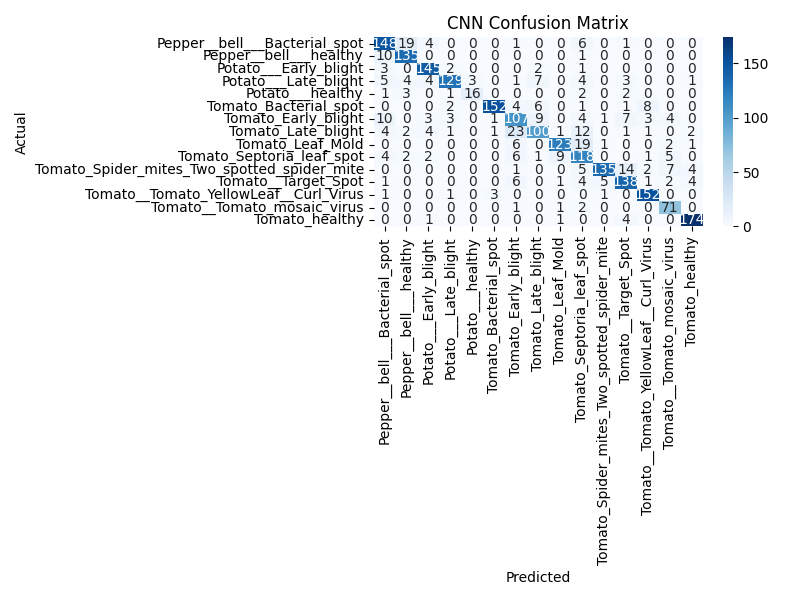
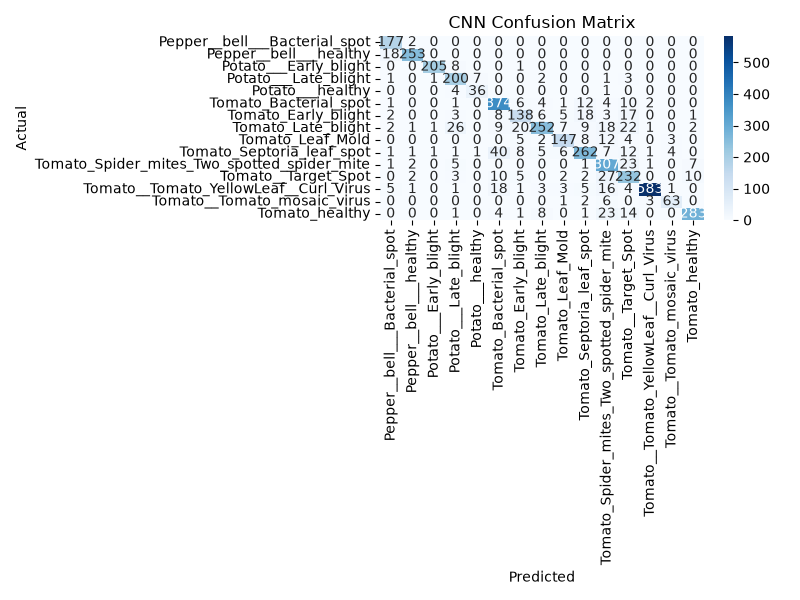
Deploy PhytoCheck: MobileNetV2 Transfer Learning pipeline

diff --git a/train_pipeline.py b/train_pipeline.py
@@ -4,6 +4,11 @@ import numpy as np
 import pandas as pd
 import matplotlib.pyplot as plt
 import seaborn as sns
+import joblib
+from sklearn.utils.class_weight import compute_class_weight
+from tensorflow.keras.applications import MobileNetV2
+from tensorflow.keras.layers import GlobalAveragePooling2D
+from tensorflow.keras.callbacks import EarlyStopping
 from sklearn.model_selection import train_test_split, GridSearchCV
 from sklearn.preprocessing import StandardScaler, LabelEncoder
 from sklearn.decomposition import PCA
@@ -23,7 +28,6 @@ IMG_SIZE_CLASSICAL = 64
 IMG_SIZE_CNN = 128
 
 def load_data(img_size):
-    """Loads images, resizes them, and returns feature arrays and labels."""
     X = []
     y = []
     classes = os.listdir(DATASET_PATH)
@@ -42,111 +46,153 @@ def load_data(img_size):
                 
     return np.array(X), np.array(y)
 
-print("Loading data for Classical ML...")
-X_class, y_raw = load_data(IMG_SIZE_CLASSICAL)
+if __name__ == '__main__':
+    print("Loading data for Classical ML...")
+    X_class, y_raw = load_data(IMG_SIZE_CLASSICAL)
 
-le = LabelEncoder()
-y_encoded = le.fit_transform(y_raw)
-
-X_flat = X_class.reshape(X_class.shape[0], -1)
-
-X_flat = X_flat / 255.0
-
-X_train, X_test, y_train, y_test = train_test_split(X_flat, y_encoded, test_size=0.2, random_state=42)
-
-scaler = StandardScaler()
-X_train_scaled = scaler.fit_transform(X_train)
-X_test_scaled = scaler.transform(X_test)
-
-print("Applying PCA...")
-pca = PCA(n_components=0.95) 
-X_train_pca = pca.fit_transform(X_train_scaled)
-X_test_pca = pca.transform(X_test_scaled)
-print(f"Original shape: {X_train_scaled.shape}, Reduced shape: {X_train_pca.shape}")
-
-models = {
-    "Logistic Regression": LogisticRegression(max_iter=500),
-    "K-Nearest Neighbors": KNeighborsClassifier(n_neighbors=5),
-    "Support Vector Machine": SVC(kernel='rbf', probability=True),
-    "Decision Tree": DecisionTreeClassifier(),
-    "Random Forest": RandomForestClassifier(n_estimators=100)
-}
-
-print("\n--- Training Classical ML Models ---")
-results = {}
-for name, model in models.items():
-    model.fit(X_train_pca, y_train)
-    y_pred = model.predict(X_test_pca)
-    acc = accuracy_score(y_test, y_pred)
-    results[name] = acc
-    print(f"{name} Accuracy: {acc:.4f}")
-
-print("\n--- Hyperparameter Tuning (Random Forest) ---")
-param_grid = {
-    'n_estimators': [50, 100],
-    'max_depth': [None, 10, 20]
-}
-grid_search = GridSearchCV(RandomForestClassifier(), param_grid, cv=3, n_jobs=-1)
-grid_search.fit(X_train_pca, y_train)
-print(f"Best RF Parameters: {grid_search.best_params_}")
-print(f"Optimized RF Accuracy: {grid_search.best_score_:.4f}")
-
-print("\n--- Training INDUSTRY LEVEL CNN Model ---")
-X_cnn, _ = load_data(IMG_SIZE_CNN)
-X_cnn = X_cnn / 255.0 # Normalize
-y_cnn_cat = to_categorical(y_encoded)
-
-X_train_cnn, X_test_cnn, y_train_cnn, y_test_cnn = train_test_split(X_cnn, y_cnn_cat, test_size=0.2, random_state=42)
-
-cnn_model = Sequential([
-    # --- INDUSTRY DATA AUGMENTATION LAYERS ---
-    RandomFlip("horizontal_and_vertical", input_shape=(IMG_SIZE_CNN, IMG_SIZE_CNN, 3)),
-    RandomRotation(0.2), 
-    RandomZoom(0.2),     
-    RandomBrightness(factor=0.2), 
-
-    # --- EXISTING FEATURE EXTRACTION ---
-    Conv2D(32, (3,3), activation='relu'),
-    MaxPooling2D(2,2),
-    Conv2D(64, (3,3), activation='relu'),
-    MaxPooling2D(2,2),
-    Flatten(),
+    le = LabelEncoder()
+    y_encoded = le.fit_transform(y_raw)
     
-    # --- EXISTING BRAIN & OUTPUT ---
-    Dense(128, activation='relu'),
-    Dropout(0.5),
-    Dense(len(le.classes_), activation='softmax')
-])
+    X_flat = X_class.reshape(X_class.shape[0], -1) / 255.0
+    X_train, X_test, y_train, y_test = train_test_split(X_flat, y_encoded, test_size=0.2, random_state=42)
+    
+    scaler = StandardScaler()
+    X_train_scaled = scaler.fit_transform(X_train)
+    X_test_scaled = scaler.transform(X_test)
+    
+    print("Applying PCA...")
+    pca = PCA(n_components=0.95) 
+    X_train_pca = pca.fit_transform(X_train_scaled)
+    X_test_pca = pca.transform(X_test_scaled)
+    
+    models = {
+        "Logistic Regression": LogisticRegression(max_iter=500),
+        "K-Nearest Neighbors": KNeighborsClassifier(n_neighbors=5),
+        "Support Vector Machine": SVC(kernel='rbf', probability=True),
+        "Decision Tree": DecisionTreeClassifier(),
+        "Random Forest": RandomForestClassifier(n_estimators=100)
+    }
 
-cnn_model.compile(optimizer='adam', loss='categorical_crossentropy', metrics=['accuracy'])
+    print("\n--- Training Classical ML Models ---")
+    results = {}
+    for name, model in models.items():
+        model.fit(X_train_pca, y_train)
+        y_pred = model.predict(X_test_pca)
+        acc = accuracy_score(y_test, y_pred)
+        results[name] = acc
+        print(f"{name} Accuracy: {acc:.4f}")
 
-history = cnn_model.fit(X_train_cnn, y_train_cnn, epochs=10, validation_data=(X_test_cnn, y_test_cnn), verbose=1)
+    print("\n--- Hyperparameter Tuning (Random Forest) ---")
+    param_grid = {
+        'n_estimators': [50, 100],
+        'max_depth': [None, 10, 20]
+    }
+    
+    grid_search = GridSearchCV(RandomForestClassifier(), param_grid, cv=3, n_jobs=1)
+    grid_search.fit(X_train_pca, y_train)
+    print(f"Best RF Parameters: {grid_search.best_params_}")
+    print(f"Optimized RF Accuracy: {grid_search.best_score_:.4f}")
 
-cnn_model.save('phyto_cnn_model.h5')
-np.save('classes.npy', le.classes_)
+    print("\nSaving Classical ML Assets")
+    joblib.dump(models["Support Vector Machine"], 'phyto_svm_model.pkl')
+    joblib.dump(scaler, 'scaler.pkl')
+    joblib.dump(pca, 'pca.pkl')
+    joblib.dump(le, 'label_encoder.pkl')
 
-print("\n--- CNN Evaluation ---")
-y_pred_cnn = np.argmax(cnn_model.predict(X_test_cnn), axis=1)
-y_true_cnn = np.argmax(y_test_cnn, axis=1)
+    print("\nTraining CNN Model")
+    X_cnn, _ = load_data(IMG_SIZE_CNN)
+    X_cnn = X_cnn / 255.0 
+    y_cnn_cat = to_categorical(y_encoded)
 
-print("Classification Report:")
-print(classification_report(y_true_cnn, y_pred_cnn, target_names=le.classes_))
+    X_train_cnn, X_test_cnn, y_train_cnn, y_test_cnn = train_test_split(X_cnn, y_cnn_cat, test_size=0.2, random_state=42)
 
-plt.figure(figsize=(10, 5))
-plt.bar(results.keys(), results.values(), color='skyblue')
-plt.title('Classical ML Models Comparison')
-plt.ylabel('Accuracy')
-plt.xticks(rotation=45)
-plt.tight_layout()
-plt.savefig('model_comparison.png')
+    # cnn_model = Sequential([
+    #     RandomFlip("horizontal_and_vertical", input_shape=(IMG_SIZE_CNN, IMG_SIZE_CNN, 3)),
+    #     RandomRotation(0.2), 
+    #     RandomZoom(0.2),     
+    #     RandomBrightness(factor=0.2), 
+    #     Conv2D(32, (3,3), activation='relu'),
+    #     MaxPooling2D(2,2),
+    #     Conv2D(64, (3,3), activation='relu'),
+    #     MaxPooling2D(2,2),
+    #     Flatten(),
+    #     Dense(128, activation='relu'),
+    #     Dropout(0.5),
+    #     Dense(len(le.classes_), activation='softmax')
+    # ])
 
-cm = confusion_matrix(y_true_cnn, y_pred_cnn)
-plt.figure(figsize=(8, 6))
-sns.heatmap(cm, annot=True, fmt='d', cmap='Blues', xticklabels=le.classes_, yticklabels=le.classes_)
-plt.title('CNN Confusion Matrix')
-plt.ylabel('Actual')
-plt.xlabel('Predicted')
-plt.tight_layout()
-plt.savefig('cnn_confusion_matrix.png')
+    # cnn_model.compile(optimizer='adam', loss='categorical_crossentropy', metrics=['accuracy'])
 
-print("Training complete! Models and plots saved.")
+    # history = cnn_model.fit(X_train_cnn, y_train_cnn, epochs=10, validation_data=(X_test_cnn, y_test_cnn), verbose=1)
+
+    #Transfer Learning Mobilenetv2
+
+    y_train_labels = np.argmax(y_train_cnn, axis=1)
+    class_weights = compute_class_weight(
+        class_weight='balanced',
+        classes=np.unique(y_train_labels),
+        y=y_train_labels
+    )
+    class_weights_dict = dict(enumerate(class_weights))
+
+    print("Configuring MobileNetV2 Base Model...")
+    base_model = MobileNetV2(weights='imagenet', include_top=False, input_shape=(IMG_SIZE_CNN, IMG_SIZE_CNN, 3))
+    base_model.trainable = False 
+
+    cnn_model = Sequential([
+        RandomFlip("horizontal_and_vertical", input_shape=(IMG_SIZE_CNN, IMG_SIZE_CNN, 3)),
+        RandomRotation(0.1),
+        RandomZoom(0.1),
+        base_model,
+        GlobalAveragePooling2D(),
+        Dense(128, activation='relu'),
+        Dropout(0.3),
+        Dense(len(le.classes_), activation='softmax')
+    ])
+
+    cnn_model.compile(optimizer='adam', loss='categorical_crossentropy', metrics=['accuracy'])
+
+    early_stopping = EarlyStopping(
+        monitor='val_loss',
+        patience=4,
+        restore_best_weights=True
+    )
+
+    print("Training Transfer Learning Model...")
+    history = cnn_model.fit(
+        X_train_cnn, y_train_cnn,
+        epochs=15,
+        validation_data=(X_test_cnn, y_test_cnn),
+        class_weight=class_weights_dict,
+        callbacks=[early_stopping],
+        verbose=1
+    )
+
+    cnn_model.save('phyto_cnn_model.keras')
+    np.save('classes.npy', le.classes_)
+
+    print("\nCNN Evaluation")
+    y_pred_cnn = np.argmax(cnn_model.predict(X_test_cnn), axis=1)
+    y_true_cnn = np.argmax(y_test_cnn, axis=1)
+
+    print("Classification Report:")
+    print(classification_report(y_true_cnn, y_pred_cnn, target_names=le.classes_))
+
+    plt.figure(figsize=(10, 5))
+    plt.bar(results.keys(), results.values(), color='skyblue')
+    plt.title('Classical ML Models Comparison')
+    plt.ylabel('Accuracy')
+    plt.xticks(rotation=45)
+    plt.tight_layout()
+    plt.savefig('model_comparison.png')
+
+    cm = confusion_matrix(y_true_cnn, y_pred_cnn)
+    plt.figure(figsize=(8, 6))
+    sns.heatmap(cm, annot=True, fmt='d', cmap='Blues', xticklabels=le.classes_, yticklabels=le.classes_)
+    plt.title('CNN Confusion Matrix')
+    plt.ylabel('Actual')
+    plt.xlabel('Predicted')
+    plt.tight_layout()
+    plt.savefig('cnn_confusion_matrix.png')
+
+    print("Training complete! Models and plots saved.")

diff --git a/app.py b/app.py
@@ -5,54 +5,46 @@ import cv2
 from PIL import Image
 import os
 
-# Set page config
 st.set_page_config(page_title="PhytoCheck - Plant Disease AI", page_icon="🌿", layout="centered")
 
-# Load Knowledge Base (Disease Recommendation System)
-# In a real app, this could be a database.
 RECOMMENDATIONS = {
-    "Potato___Early_blight": {
-        "disease": "Early Blight",
-        "confidence_threshold": 0.75,
-        "treatment": "Apply fungicides containing chlorothalonil or copper. Practice crop rotation and ensure good plant spacing for airflow."
-    },
-    "Potato___Late_blight": {
-        "disease": "Late Blight",
-        "confidence_threshold": 0.75,
-        "treatment": "Immediate application of protective fungicides. Destroy infected plants to prevent spreading. Avoid overhead watering."
-    },
-    "Potato___healthy": {
-        "disease": "Healthy Plant",
-        "confidence_threshold": 0.50,
-        "treatment": "Your plant looks healthy! Continue regular watering, sunlight exposure, and standard fertilization."
-    }
+    "Pepper__bell___Bacterial_spot": {"disease": "Pepper Bell: Bacterial Spot", "treatment": "Use copper-based bactericides. Ensure seeds are disease-free and practice crop rotation."},
+    "Pepper__bell___healthy": {"disease": "Pepper Bell: Healthy", "treatment": "Plant is healthy. Maintain proper watering and nutrition."},
+    "Potato___Early_blight": {"disease": "Potato: Early Blight", "treatment": "Apply fungicides containing chlorothalonil or copper. Practice crop rotation and ensure good plant spacing for airflow."},
+    "Potato___healthy": {"disease": "Potato: Healthy Plant", "treatment": "Your plant looks healthy! Continue regular watering, sunlight exposure, and standard fertilization."},
+    "Potato___Late_blight": {"disease": "Potato: Late Blight", "treatment": "Immediate application of protective fungicides. Destroy infected plants to prevent spreading. Avoid overhead watering."},
+    "Tomato__Target_Spot": {"disease": "Tomato: Target Spot", "treatment": "Apply fungicides like chlorothalonil. Remove infected lower leaves to improve air circulation."},
+    "Tomato__Tomato_mosaic_virus": {"disease": "Tomato: Mosaic Virus", "treatment": "No cure exists. Remove and destroy infected plants immediately. Wash hands and tools thoroughly."},
+    "Tomato__Tomato_YellowLeaf__Curl_Virus": {"disease": "Tomato: Yellow Leaf Curl Virus", "treatment": "Control whitefly populations using insecticidal soaps or neem oil. Remove infected plants."},
+    "Tomato_Bacterial_spot": {"disease": "Tomato: Bacterial Spot", "treatment": "Apply copper fungicides mixed with mancozeb. Avoid overhead irrigation."},
+    "Tomato_Early_blight": {"disease": "Tomato: Early Blight", "treatment": "Use fungicides with chlorothalonil. Stake plants to keep foliage off the soil."},
+    "Tomato_healthy": {"disease": "Tomato: Healthy", "treatment": "Plant is healthy. Continue standard care."},
+    "Tomato_Late_blight": {"disease": "Tomato: Late Blight", "treatment": "Apply specific fungicides like mefenoxam if resistant strains are absent. Destroy severely infected plants."},
+    "Tomato_Leaf_Mold": {"disease": "Tomato: Leaf Mold", "treatment": "Increase air circulation and reduce humidity. Apply approved fungicides if necessary."},
+    "Tomato_Septoria_leaf_spot": {"disease": "Tomato: Septoria Leaf Spot", "treatment": "Apply chlorothalonil or copper fungicides. Remove infected lower leaves and practice crop rotation."},
+    "Tomato_Spider_mites_Two_spotted_spider_mite": {"disease": "Tomato: Two-Spotted Spider Mite", "treatment": "Use insecticidal soaps, neem oil, or specific miticides. Introduce predatory mites as biological control."}
 }
 
-# Load Model and Classes
 @st.cache_resource
-def load_model_and_classes():
+def load_deep_learning_assets():
     try:
-        model = tf.keras.models.load_model('phyto_cnn_model.h5')
+        # Loading the modern .keras format
+        model = tf.keras.models.load_model('phyto_cnn_model.keras')
         classes = np.load('classes.npy')
         return model, classes
     except Exception as e:
-        st.error(f"Error loading model. Please run train_pipeline.py first. Details: {e}")
+        st.error(f"Error loading model. Please ensure the training script has finished. Details: {e}")
         return None, None
 
-model, classes = load_model_and_classes()
+model, classes = load_deep_learning_assets()
 
-# Header
 st.title("🌿 PhytoCheck")
 st.subheader("Plant Disease Detection & Treatment Recommendation")
-st.markdown("""
-Upload an image of a plant leaf, and our Machine Learning model (CNN) will identify the disease and provide treatment recommendations.
-""")
+st.markdown("Upload an image of a plant leaf, and our MobileNetV2 Deep Learning model will identify the disease and provide treatment recommendations.")
 
-# File Uploader
 uploaded_file = st.file_uploader("Upload a Leaf Image (JPG/PNG)", type=["jpg", "jpeg", "png"])
 
 if uploaded_file is not None:
-    # Display the uploaded image
     image = Image.open(uploaded_file)
     st.image(image, caption='Uploaded Leaf Image', use_container_width=True)
     
@@ -60,29 +52,21 @@ if uploaded_file is not None:
         if model is None:
             st.error("Model is not available.")
         else:
-            with st.spinner("Analyzing using Convolutional Neural Network..."):
-                # Preprocess image for the CNN
-                # Convert PIL image to numpy array
+            with st.spinner("Analyzing via Transfer Learning Pipeline..."):
                 img_array = np.array(image.convert('RGB'))
                 
-                # Resize to match CNN input shape (128x128)
+                # CNN uses 128x128 as defined in your script
                 img_resized = cv2.resize(img_array, (128, 128))
-                
-                # Normalize pixel values
                 img_normalized = img_resized / 255.0
-                
-                # Expand dimensions to match batch size format (1, 128, 128, 3)
                 img_batch = np.expand_dims(img_normalized, axis=0)
                 
                 # Predict
                 predictions = model.predict(img_batch)
-                predicted_class_idx = np.argmax(predictions[0])
                 confidence = np.max(predictions[0])
+                predicted_class_idx = np.argmax(predictions[0])
                 
                 predicted_class_name = classes[predicted_class_idx]
                 
-                # Fetch Recommendation
-                # If the predicted class isn't exactly in our dummy dict, use a default fallback
                 info = RECOMMENDATIONS.get(predicted_class_name, {
                     "disease": predicted_class_name.replace("___", " ").replace("_", " "),
                     "treatment": "Consult a local agricultural expert for specific treatment plans."
@@ -91,7 +75,6 @@ if uploaded_file is not None:
                 st.markdown("---")
                 st.header("Diagnosis Results")
                 
-                # Layout columns
                 col1, col2 = st.columns(2)
                 
                 with col1:
@@ -102,7 +85,6 @@ if uploaded_file is not None:
                 st.subheader("📝 Treatment Recommendations")
                 st.info(info["treatment"])
                 
-                # Progress bar for confidence visual
                 st.progress(float(confidence))
 
 st.markdown("---")